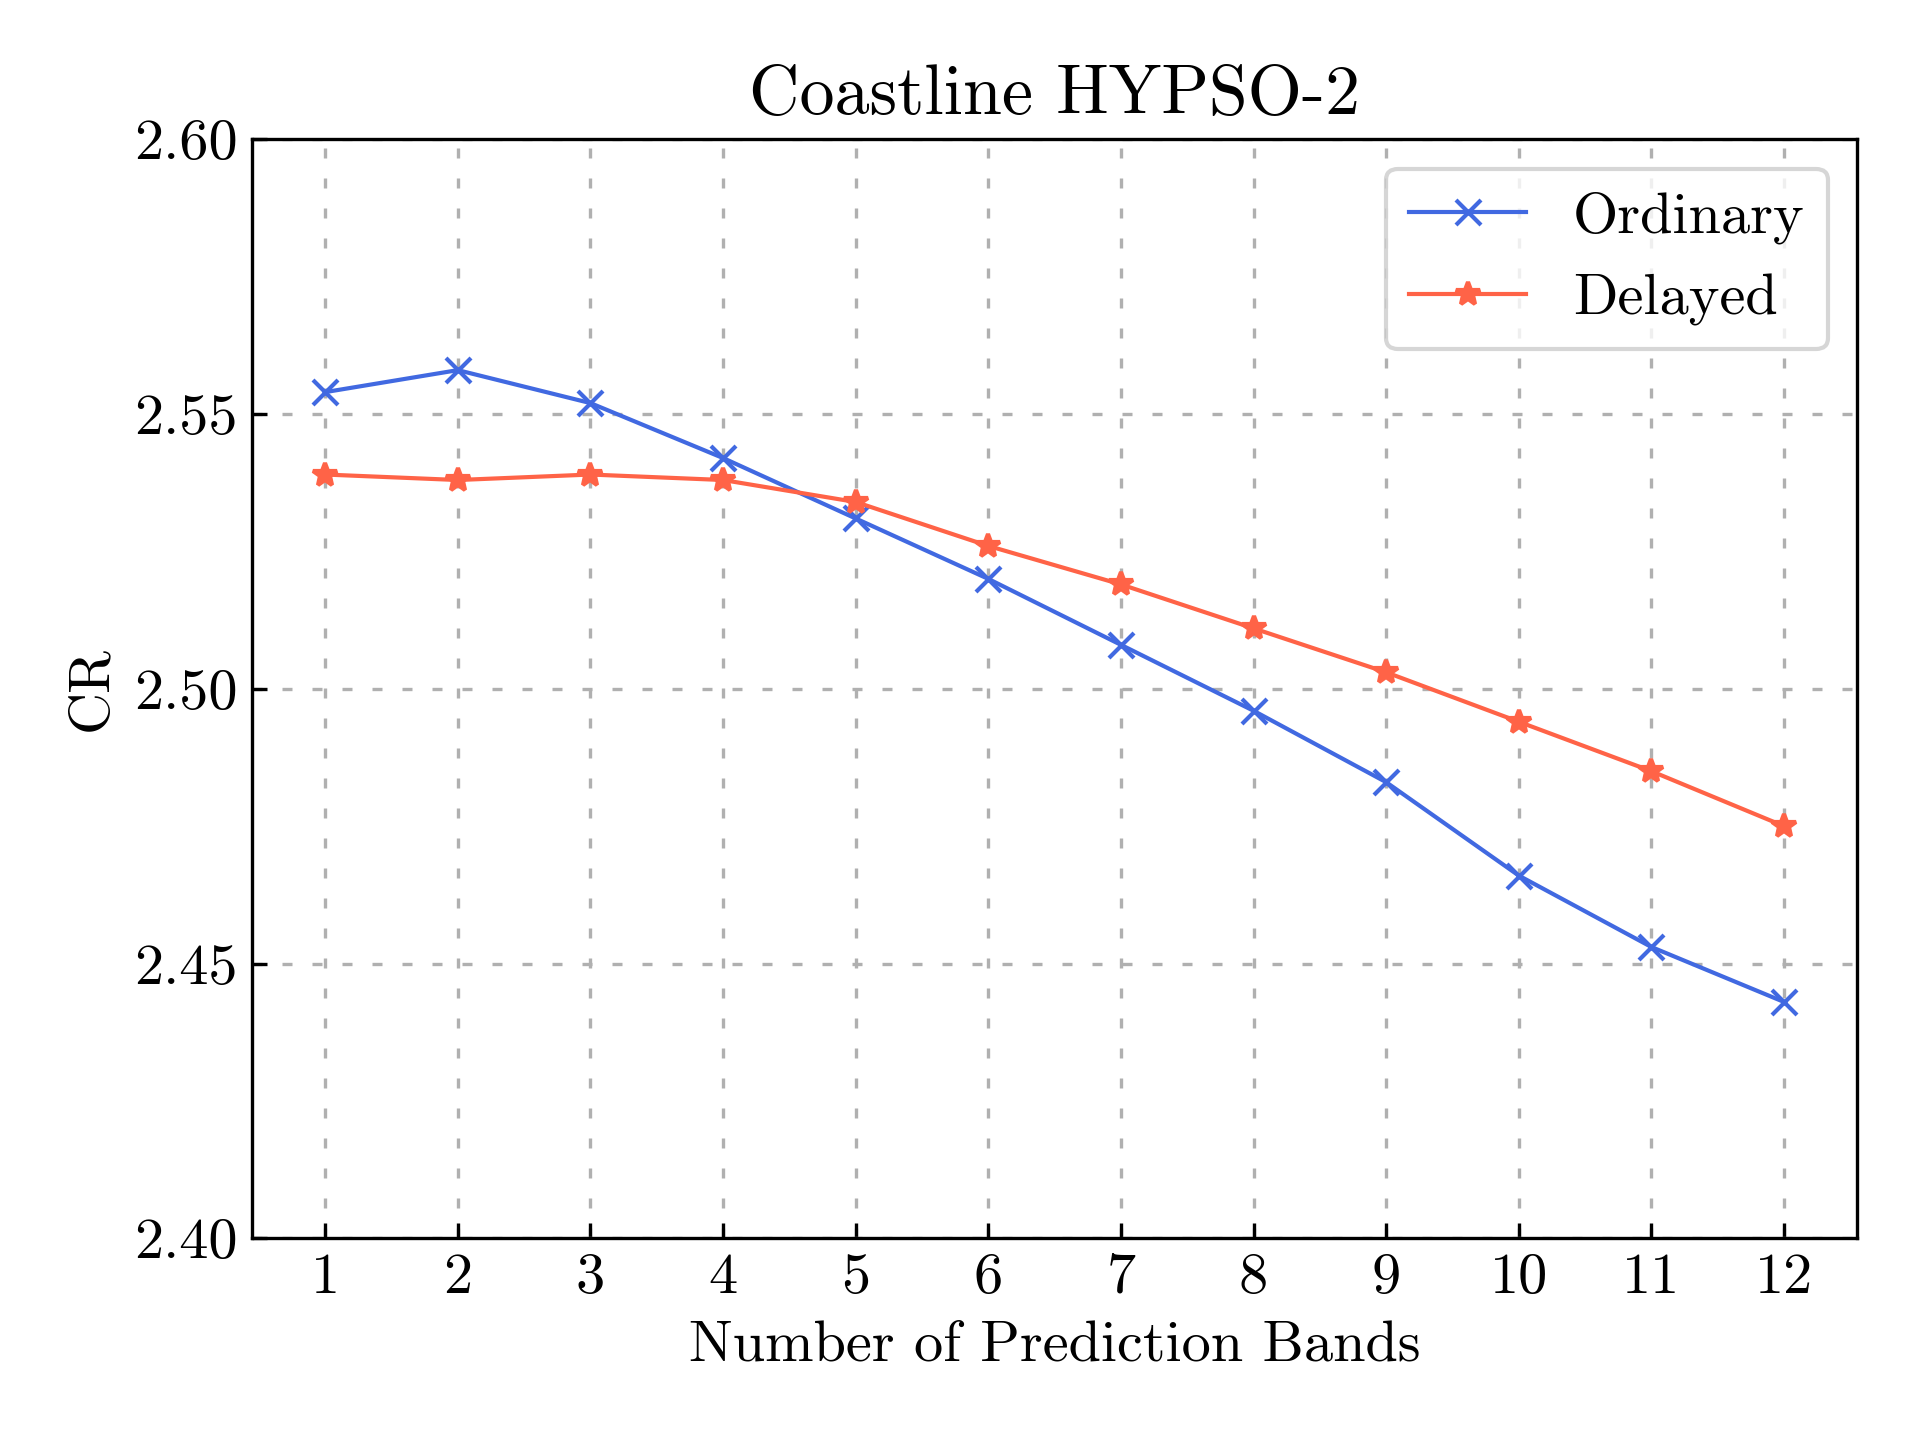
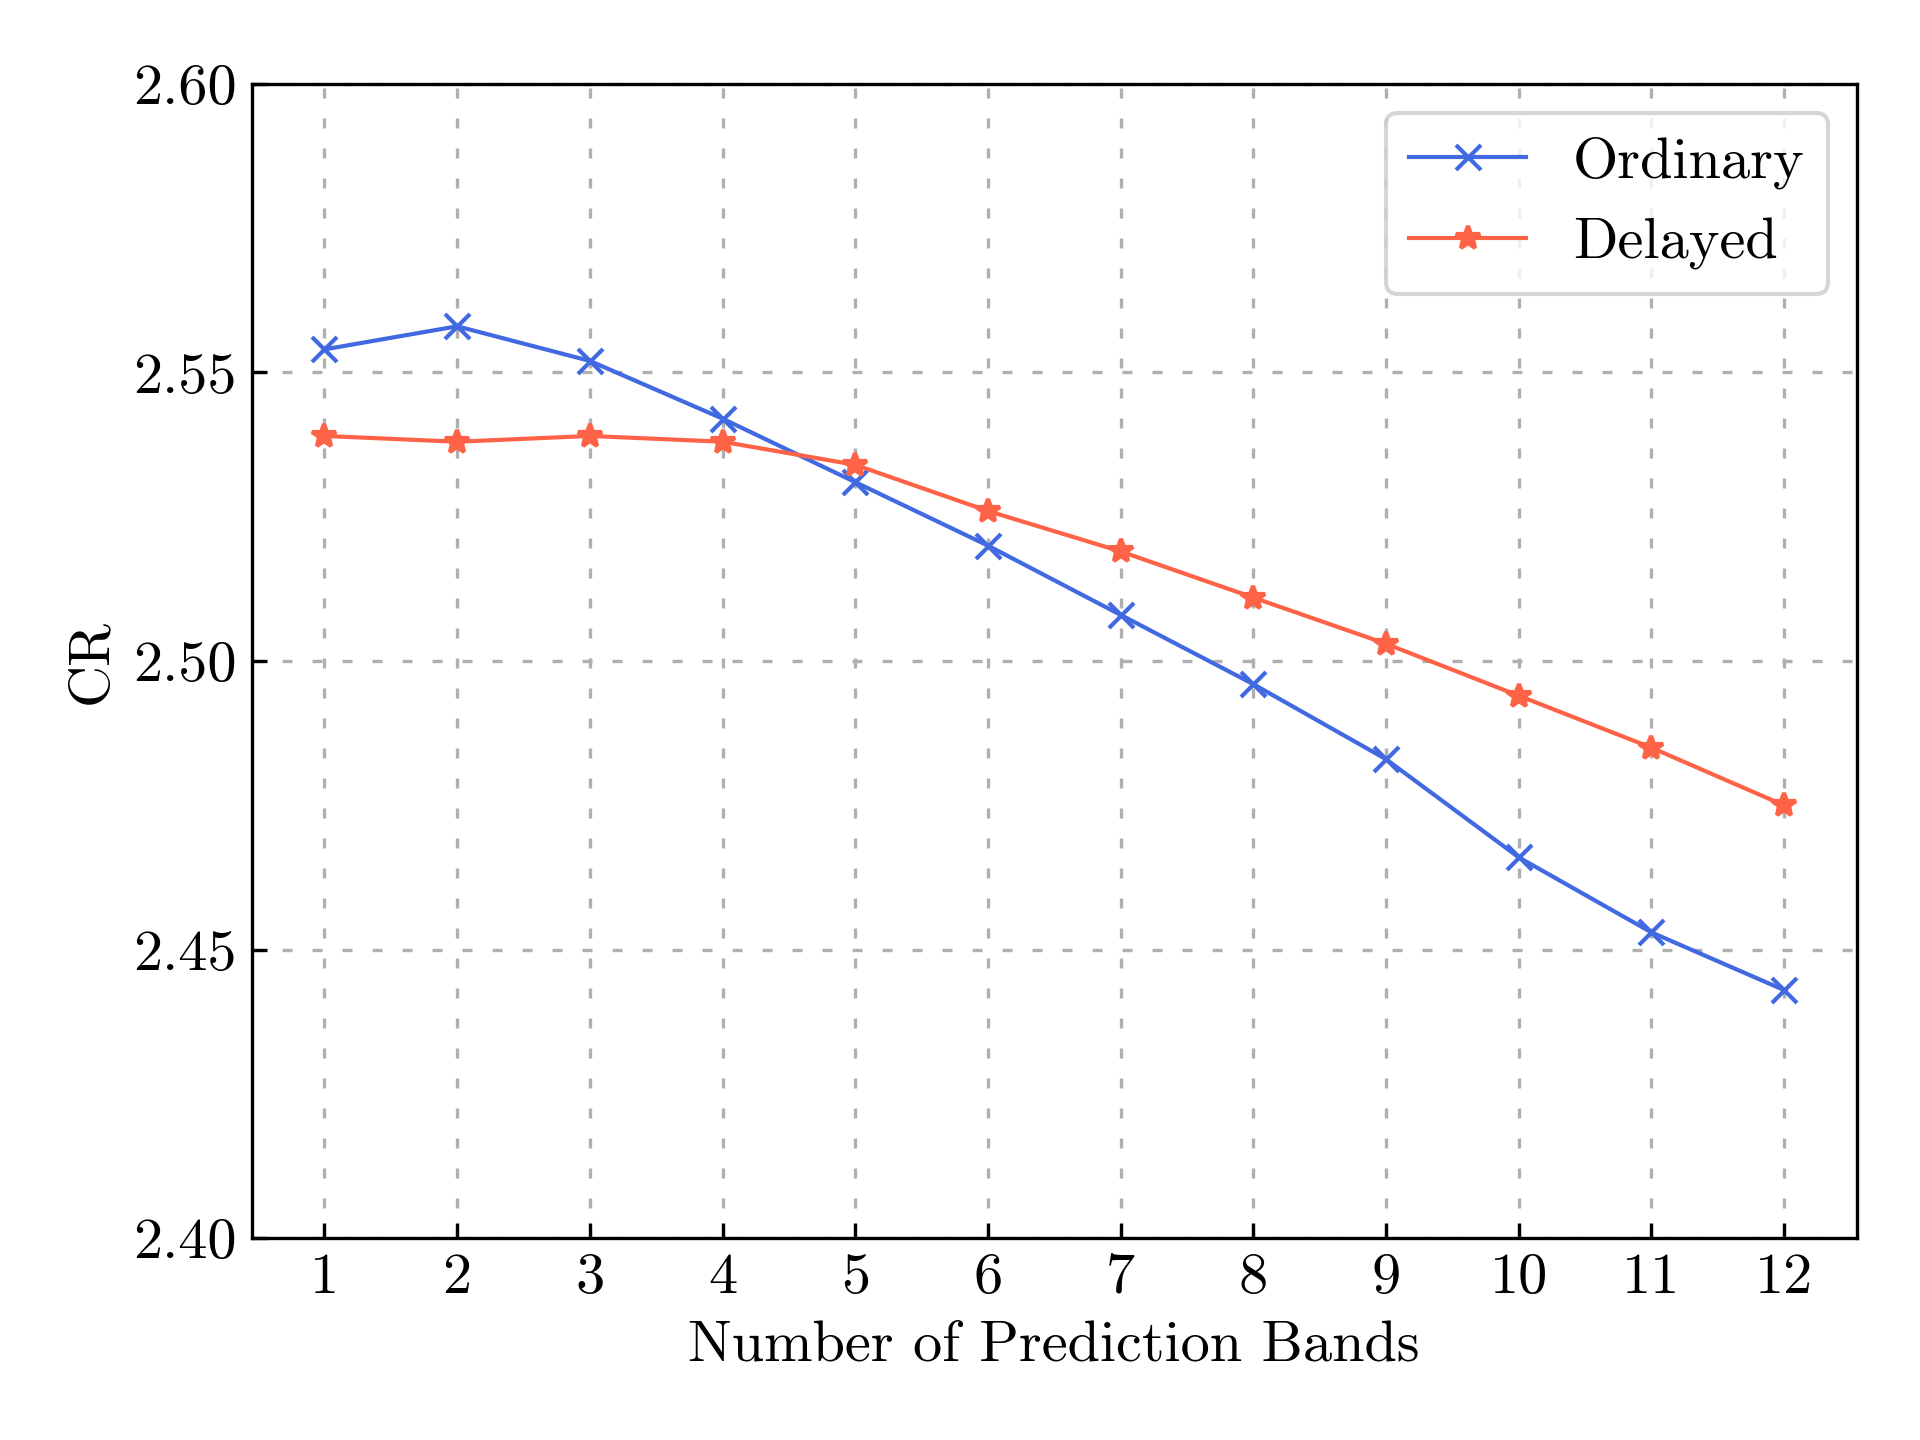
more state-of-the-art

diff --git a/chapters/3-state-of-the-art.tex b/chapters/3-state-of-the-art.tex
@@ -1,7 +1,11 @@
 \chapter{State-of-the-Art}
 \label{sec:state-of-the-art}
 
-Prequantization is used by both \citeauthor{chatziantoniouScalableDataRateNearLossless2022a} and \citeauthor{valsesiaHighThroughputOnboardHyperspectral2019}, the latter using a computational neural network at the ground station to recover some of the lost data. The latter does not implement the solution in RTL, but does a study of the viability of the method.
+Since the release of the issue 1 standard, several implementations for hardware have been developed. Due to the lossless operation of the algorithm, image samples are used in place of the sample representatives of issue 2. This allows samples of different bands to be processed in parallel execution pipelines, an approach used by \citeauthor{orlandicParallelFPGAImplementation2019} to achieve a throughput of 750 MS/s \cite{orlandicParallelFPGAImplementation2019}. Samples are processed in the \acrshort{BIP} ordering, where image pixels are processed sequentially. Groups of $N_p$ samples are split according to their band and processed by $N_p$ pipelined cores. A different approach is used by \citeauthor{tsigkanosHighPerformanceCOTSFPGA2020}, in which images are split into segments that are compressed using separate, simpler cores. Using five parallel cores, a throughput of 1387 MS/s is reached.
+
+Both of the mentioned issue 1 implementations support on-the-fly (real-time) processing, in which samples are processed immediately as they are made available from the image sensor. This is a desirable feature that reduces the need for temporary data storage. For the \acrshort{hypso}-1 image sensor, the real-time processing requirement is about 110.6 MS/s when operating at its maximum capacity of 47 frames per second with frames of size $1936x1216$ samples \cite{grotteOceanColorHyperspectral2022}. The real-time requirement differs between sensors, with the sensors of AVIRIS-NG and CHIME residing at 37.5 MS/s and 125 MS/s respectively \footnote{add cite to 18 and 21 from Bascones paper}[].
+
+The quantization step, and subsequent sample representatives, of issue 2 introduce data dependencies in the predictor stage (\autoref{fig:dependencies}) that pose a challenge for pipelined hardware implementations. Parallel processing of samples using the method of \citeauthor{orlandicParallelFPGAImplementation2019} is no longer possible. \citeauthor{barriosHardwareImplementationCCSDS2021} present the first implementation of issue 2 in open literature, and is fully compliant with the standard \cite{barriosHardwareImplementationCCSDS2021}. Using the \acrshort{HLS} design methodology, they reach a low throughput of 18 MS/s. No special considerations as to the data dependencies are made, resulting in an almost fully serial implementation. This shows that a different approach is required to reach real-time operation.
 
 \begin{table}[ht]
 	\caption{The number of processed samples interleaving $z-1$ and $t-1$ dependencies, including the novel FID ordering in addition to the standard orderings.}
@@ -18,21 +22,45 @@ Prequantization is used by both \citeauthor{chatziantoniouScalableDataRateNearLo
 	\end{center}
 \end{table}
 
+As shown in \autoref{sec:compression}, data dependencies may be selectively bypassed by carefully selecting the sample processing order. This interleaves data dependant calculations by a number of other samples, allowing time for the dependency to resolve. The first viable real-time implementation of issue 2 is presented by \citeauthor{basconesFPGAAcceleratorRealTime2020}. By use of a novel sample processing order, dubbed \acrfull{FID}, they reach a throughput of 285 MS/s. \autoref{fig:fid} shows a visualization of the \acrshort{FID} processing order, with processed samples marked in white. Frames are concatenated along the $x$ dimension and processed diagonally, iterating on the $z$ and $x$ dimensions. The number of samples that interleave data dependencies can be obtained by counting along the diagonal, giving $N_z-1$ and $N_z$ samples for $z-1$ and $t-1$ dependencies respectively. This facilitates the deep pipeline of $57$ stages used by the implementation while allowing support for full and reduced prediction modes and all local sum types. Dependency interleaving of the different processing orders, including \acrshort{FID} is summarized in \autoref{tab:orderings-fid}.
+
+The use of a new processing ordering requires reordering buffers that convert from the standard \acrshort{BIP} ordering. These are placed at each side of the predictor. The hybrid encoder module proceeds in \acrshort{BIP} ordering to result in a compressed bitstream compliant with the standard. Additionally, this allows integration into existing systems. The reordering buffers come at the cost of extra hardware resources, resulting in a somewhat larger footprint than that of \citeauthor{barriosHardwareImplementationCCSDS2021}. Especially in terms of \acrshort{BRAM}, which is increased from $85$ to $213$ due to storage required by the reordering buffers. Resource utilization is somewhat mitigated by use of portable \acrshort{RTL} written in VHDL, as opposed to the \acrshort{HLS} approach used by \citeauthor{barriosHardwareImplementationCCSDS2021}. Both implementations support runtime reconfiguration, adding additional hardware to provide flexibility.
+
 \begin{figure}[ht]
 	\begin{center}
 		\includegraphics[width=1\textwidth]{figures/fid.png}
 	\end{center}
-	\caption{}
+	\caption{Novel \acrshort{FID} processing order presented by \citeauthor{basconesFPGAAcceleratorRealTime2020} interleaves all dependencies by a minimum of $N_z - 1$ samples, allowing deep pipelining.}
 	\label{fig:fid}
 \end{figure}
 
 \begin{figure}[ht]
 	\begin{center}
+		\includegraphics[width=0.9\textwidth]{figures/ccsds-prequantization.png}
+	\end{center}
+	\caption{Prequantization of image samples allows use of a lossless prediction loop, avoiding the challenging data dependencies.}
+	\label{fig:prequantization}
+\end{figure}
+
+The works by \citeauthor{chatziantoniouScalableDataRateNearLossless2022a} and \citeauthor{valsesiaHighThroughputOnboardHyperspectral2019} suggest that the quantization step of the issue 2 predictor can be moved prior to the predictor as shown in \autoref{fig:prequantization} \cite{chatziantoniouScalableDataRateNearLossless2022a, valsesiaHighThroughputOnboardHyperspectral2019}. Image samples are quantized prior to prediction. This allows use of a lossless prediction loop, avoiding the need for sample representatives and the challenging data dependencies. The predictor can now be implemented using similar techniques as used by implementations of issue 1.
+
+In addition to prequantization, \citeauthor{chatziantoniouScalableDataRateNearLossless2022a} employ image segmentation, a technique that may also be used by issue 2 compliant compressors as described in issue 2 green book \cite{LosslessMultispectralHyperspectral2022}. Reduction in compression performance is minimal for the segmented image, given that the segment sizes are large. Using VHDL \acrshort{RTL} and five cores, \citeauthor{chatziantoniouScalableDataRateNearLossless2022a} reach a throughput of 1375 MS/s, with a single core performance of 285 MS/s. This matches the results of \citeauthor{basconesRealTimeFPGAImplementation2022}, but at a larger area footprint.
+
+Prequantization comes at a degradation in compression performance, both in terms of bitrate and image distortion, as opposed to the in-loop quantizer of issue 2. The works by \citeauthor{chatziantoniouScalableDataRateNearLossless2022a} and \citeauthor{valsesiaHighThroughputOnboardHyperspectral2019} show that the increase in bitrate and decreased image SNR are greatest for low bitrates. To combat this, \citeauthor{valsesiaHighThroughputOnboardHyperspectral2019} suggest using an on-ground computational neural network (CNN) to reconstruct lost data. During simulation, the method is able to mitigate data loss, and may be used for in-loop quantization as well as prequantization. However, the approach adds significant complexity to the reconstruction of images.
+
+\begin{figure}[ht]
+	\begin{center}
 		\includegraphics[width=1\textwidth]{figures/ccsds-pipeline-naive.png}
 	\end{center}
-	\caption{}
+	\caption{Suggested pipeline using reduced prediction mode, narrow local sums and \acrshort{BIL} processing order. Weight updates depend on results from the sample representative calculation, constraining the throughput.}
 	\label{fig:ccsds-pipeline-naive}
 \end{figure}
+
+\citeauthor{sanchezReducingDataDependencies2022} identify that by using narrow local sums and reduced prediction mode, $t-1$ dependencies related to local sums and differences can be avoided (\autoref{fig:local-sums}) \cite{sanchezReducingDataDependencies2022}. Additionally, by using \acrshort{BIL} processing order, $z-1$ dependencies can be avoided (\autoref{tab:orderings-fid}). \autoref{fig:ccsds-pipeline-naive} shows a pipeline using these configuration. The weight update calculation, required by predicted central local differences, still has an unavoidable $t-1$ dependency, placing a significant restriction on the achievable throughput.
+
+\citeauthor{barriosRemovingDataDependencies2024} present a solution in which the remaining data dependence of the weight updates is avoided by skipping weight updates entirely. This allows deep pipelining, but comes at the cost of reduced compression performance as the prediction loop can no longer dynamically adapt to image characteristics. To mitigate this, the authors use previous data sets to carefully select the initial weight values for specific image sensors. ...
+
+\citeauthor{sanchezReducingDataDependencies2022} also present a mathematically equivalent way of calculating the sign of the double-resolution prediction error $e_z(t)$, given by
 
 \begin{equation}
 	\text{sgn}^+\bigl[e_z(t)\bigr] =
@@ -44,11 +72,13 @@ Prequantization is used by both \citeauthor{chatziantoniouScalableDataRateNearLo
 	\label{eq:math-opt}
 \end{equation}
 
+This removes the dependence of the clipped quantizer bin center (\autoref{eq:double-resolution-prediction-error}), calculated in the samples representative stage, allowing calculation to start earlier (\autoref{fig:ccsds-pipeline-math-opt}). By speculatively calculating the weight updates for the two possible outcomes of the sign, weight updates may be calculated in parallel with the sign during the prediction stage. Once the sign calculation resolves, the correct outcome of the weight update is selected and passed to the predicted central local difference stage. This approach, dubbed the mathematical optimization approach, is evaluated by \citeauthor{barriosRemovingDataDependencies2024} using the \acrshort{HLS} methodology. Only the predictor module is evaluated, reaching a throughput of 231 MS/s. This is used as comparison for their approach of skipping weight updates, which reaches 236 MS/s.
+
 \begin{figure}[ht]
 	\begin{center}
 		\includegraphics[width=1\textwidth]{figures/ccsds-pipeline-math-opt.png}
 	\end{center}
-	\caption{}
+	\caption{Weight update dependence on sample representatives is alleviated using the mathematical optimization approach suggested by \citeauthor{sanchezReducingDataDependencies2022}. Speculative calculation of weight updates further increases throughput.}
 	\label{fig:ccsds-pipeline-math-opt}
 \end{figure}
 
@@ -63,29 +93,30 @@ Prequantization is used by both \citeauthor{chatziantoniouScalableDataRateNearLo
 \begin{equation}
 	\omega^{(i)}_{z, \text{unclipped}}(t+1)=
 	\begin{cases}
-		\omega^{(i)}_z(t),                                                                                                                   & x \le 2,          \\[6pt]
-		\omega^{(i)}_z(t-3) + \omega^{(i)}_{z, \text{offset}}(t-3),                                                                          & x = 3,            \\[6pt]
+		\omega^{(i)}_z(t),                                                                                                                   & t \le 2,          \\[6pt]
+		\omega^{(i)}_z(t-3) + \omega^{(i)}_{z, \text{offset}}(t-3),                                                                          & t = 3,            \\[6pt]
 		\left\lfloor \dfrac{1}{2}\left(\omega^{(i)}_z(t-3) + \omega^{(i)}_{z, \text{offset}}(t-3) + \omega^{(i)}_z(t) \right) \right\rfloor, & \text{otherwise}.
 	\end{cases}
 	\label{eq:delayed-weight-updates}
 \end{equation}
 
 \begin{table}[ht]
-	\caption{Throughputs of hardware implementations of the issue 2 algorithm in open literature.}
-	\label{tab:throughput}
+	\caption{Hardware utilization and throughput of hardware accelerators of the issue 2 standard. The predictor module is the smallest and fastest in open litterature.}
+	\label{tab:throughput-this-work}
 	\centering
-	\begin{tabular}{l r r}
+	\begin{tabular}{l r r r r r r}
 		\hline
-		\textbf{Implementation}                                                                                      & \textbf{FPGA} & \textbf{Throughput} \\
+		\textbf{Implementation}                                                                                      & \textbf{FPGA} & \textbf{LUT} & \textbf{FF} & \textbf{DSP} & \textbf{BRAM} & \textbf{Throughput} \\
 		\hline
-		Barrios et al.\ \cite{barriosHardwareImplementationCCSDS2021}                                                & XCKU040       & 18~MS/s             \\
-		S\'anchez et al.\ \cite{sanchezReducingDataDependencies2022, barriosRemovingDataDependencies2024}, predictor & XCKU040       & 231~MS/s            \\
-		Barrios et al.\ \cite{barriosRemovingDataDependencies2024}, predictor                                        & XCKU040       & 236~MS/s            \\
-		B\'ascones et al.\ \cite{basconesRealTimeFPGAImplementation2022}                                             & XQRKU060      & 285~MS/s            \\
-		Chatziantoniou et al.\ \cite{chatziantoniouScalableDataRateNearLossless2022a} 1 core                         & XCKU040       & 285~MS/s            \\
-		Chatziantoniou et al.\ \cite{chatziantoniouScalableDataRateNearLossless2022a} 5 core                         & XCKU040       & 1375~MS/s           \\
-		Vorhaug et al.\ \cite{vorhaugHyperspectralImageCompression2024}                                              & XCKU040       & 110~MS/s            \\
-		Jia et al.\ \cite{jiaRemovalFeedbackLoop2025}, predictor                                                     & XCZU5EV       & 348~MS/s            \\
+		Barrios et al.\ \cite{barriosHardwareImplementationCCSDS2021}                                                & XCKU040       & 17185        & 11915       & 63           & 85            & 18~MS/s             \\
+		S\'anchez et al.\ \cite{sanchezReducingDataDependencies2022, barriosRemovingDataDependencies2024}, predictor & XCKU040       & 19840        & 12970       & 33           & 213           & 231~MS/s            \\
+		Barrios et al.\ \cite{barriosRemovingDataDependencies2024}, predictor                                        & XCKU040       & 11095        & 11729       & 20           & 186.5         & 236~MS/s            \\
+		B\'ascones et al.\ \cite{basconesRealTimeFPGAImplementation2022}                                             & XQRKU060      & 16458        & 15707       & 30           & 187.5         & 285~MS/s            \\
+		Chatziantoniou et al.\ \cite{chatziantoniouScalableDataRateNearLossless2022a} 1 core                         & XCKU040       & 18861        & 21395       & -            & 104           & 285~MS/s            \\
+		Chatziantoniou et al.\ \cite{chatziantoniouScalableDataRateNearLossless2022a} 5 core                         & XCKU040       & 67362        & 68987       & -            & 306           & 1375~MS/s           \\
+		Vorhaug et al.\ \cite{vorhaugHyperspectralImageCompression2024}                                              & XCKU040       & 5577         & 2635        & 4            & 57.5          & 110~MS/s            \\
+		Vorhaug et al.\ \cite{vorhaugHyperspectralImageCompression2024}                                              & XCZU7EV       & 5475         & 2635        & 4            & 57.5          & 141~MS/s            \\
+		Jia et al.\ \cite{jiaRemovalFeedbackLoop2025}, predictor                                                     & XCZU5EV       & 3995         & 5050        & 7            & 94            & 348~MS/s            \\
 		\hline
 	\end{tabular}
 \end{table}

diff --git a/chapters/4-implementation.tex b/chapters/4-implementation.tex
@@ -1,7 +1,7 @@
 \chapter{Methodology}
 \label{sec:implementation}
 
-This section outlines the integration of the new weight update scheme proposed by \citeauthor{jiaRemovalFeedbackLoop2025} into the hardware accelerator implemented by \citeauthor{vorhaugHyperspectralImageCompression2024}. The use of this new weight update scheme, dubbed delayed weight updates, results in a compressor that is no longer compliant with the issue 2 standard. Because of this, corresponding modifications to the predictor of the decompressor must be made to verify the results. A few open-source compressor have been developed, including the verification model presented by \citeauthor{vorhaugHyperspectralImageCompression2024}. Kevin Caldwell et al. and Daniel Báscones et al. have compressors written in the programming languages C and Java respectively \footnote{As of writing, the compressors are available online in the Github repositories \textit{Kevin-Caldwell/hyperC} and \textit{Daniel-BG/CCSDS123}.}. The latter is related to the works in \cite{basconesParallelImplementationCCSDS2017} and \cite{basconesFPGAAcceleratorRealTime2020}, whereas the first is not supported by any published works. Both compressors are compliant with the issue 2 standard, but only implement support for the sample-adaptive encoder and with limited support for decompression. This prompts the need for an open-source decompressor with support for the hybrid encoder. Before the changes to the hardware accelerator are presented, the outline for developing such a decompressor is covered.
+This section outlines the integration of the new weight update scheme proposed by \citeauthor{jiaRemovalFeedbackLoop2025} into the hardware accelerator implemented by \citeauthor{vorhaugHyperspectralImageCompression2024}. The use of this new weight update scheme, dubbed delayed weight updates, results in a compressor that is no longer compliant with the issue 2 standard. Because of this, corresponding modifications to the predictor of the decompressor must be made to verify the results. A few open-source compressor have been developed, including the verification model presented by \citeauthor{vorhaugHyperspectralImageCompression2024}. Kevin Caldwell et al. and Daniel Báscones et al. have compressors written in the programming languages C and Java respectively \footnote{As of writing, the compressors are available online in the Github repositories \textit{Kevin-Caldwell/hyperC} and \textit{Daniel-BG/CCSDS123}.}. The latter is related to the works in \cite{basconesFPGAAcceleratorRealTime2020}, whereas the first is not supported by any published works. Both compressors are compliant with the issue 2 standard, but only implement support for the sample-adaptive encoder and with limited support for decompression. This prompts the need for an open-source decompressor with support for the hybrid encoder. Before the changes to the hardware accelerator are presented, the outline for developing such a decompressor is covered.
 
 \section{Open-source Decompressor}
 
@@ -127,6 +127,16 @@ Compression performance is also evaluated across a range of prediction bands $\{
 
 \section{Hardware Accelerator}
 
+\begin{equation}
+	\omega^{(i)}_{z, \text{unclipped}}(t+1)=
+	\begin{cases}
+		\omega^{(i)}_z(t),                                                                                                                   & x \le 2,          \\[6pt]
+		\omega^{(i)}_z(t-3) + \omega^{(i)}_{z, \text{offset}}(t-3),                                                                          & x = 3,            \\[6pt]
+		\left\lfloor \dfrac{1}{2}\left(\omega^{(i)}_z(t-3) + \omega^{(i)}_{z, \text{offset}}(t-3) + \omega^{(i)}_z(t) \right) \right\rfloor, & \text{otherwise}.
+	\end{cases}
+	\label{eq:delayed-weight-updates-modified}
+\end{equation}
+
 The hardware accelerator developed by \citeauthor{vorhaugHyperspectralImageCompression2024} is updated in accordance with the delayed weight update scheme proposed by \citeauthor{jiaRemovalFeedbackLoop2025}, presented in \autoref{eq:delayed-weight-updates}. By use of this new approach, the previously indivisible weight update calculation of pipeline stage three (\autoref{fig:vorhaug-pipeline}) can be split into four distinct stages as shown in \autoref{fig:new-stage3}. The prediction calculation is done in parallel with the weight update, with stage 3a and 3b calculating $\hat{d}_z(t)$ and $\breve{s}_z(t)$. $\tilde{s}_z(t)$ and $\hat{s}_z(t)$ are calculated in stage 3c before $\Delta_z(t)$ and $m_z(t)$ are found in stage 3d. As described by \citeauthor{sanchezReducingDataDependencies2022}, speculative execution of the two possible outcomes of the weight update is performed in two parallel execution paths. Once the required values to find the sign of the prediction error (\autoref{eq:math-opt}) resolves in stage 3d, the correct value is chosen.
 
 \begin{figure}[ht]
@@ -177,7 +187,9 @@ Randomly generated test data is used as the inputs of the verification framework
 
 \subsection{Performance Evaluation}
 
-The performance of the updated accelerator is done in terms of hardware resource utilization, power usage, and maximum clock frequency. Since the accelerator processes one sample per clock cycle, after the pipeline is filled, the clock speed can be directly translated to sample throughput. The design is implemented for two different \acrshort{FPGA}s: Zynq-7030 and Zynq XCZU7EV. The former is used on-board the \acrshort{hypso} satellites, and the latter is used by \citeauthor{jiaRemovalFeedbackLoop2025} in their work presenting the delayed weight update scheme. Additionally, metrics are evaluated for the full accelerator and for the predictor module only. This allows comparison with implementation in the literature that only implement the predictor. The header configuration used during evaluation is based on the work by \citeauthor{blanesPerformanceImpactParameter2019} and is presented in \autoref{tab:parameters}. These values are also the same as those used by \citeauthor{vorhaugHyperspectralImageCompression2024}.
+The performance of the updated accelerator is done in terms of hardware resource utilization, power usage, and maximum clock frequency. Since the accelerator processes one sample per clock cycle, after the pipeline is filled, the clock speed can be directly translated to sample throughput. The design is implemented for two different \acrshort{FPGA}s: Zynq-7030 and Zynq XCZU7EV. The former is used on-board the \acrshort{hypso} satellites, and the latter is used by \citeauthor{jiaRemovalFeedbackLoop2025} in their work presenting the delayed weight update scheme. Maximum clock frequency is estimated using static timing analysis tools.
+
+The design is evaluated for the full accelerator and for the predictor module only. This allows comparison with implementations in the literature that only implement the predictor. The header configuration used during evaluation is based on the work by \citeauthor{blanesPerformanceImpactParameter2019} and is presented in \autoref{tab:parameters}. These values are also the same as those used by \citeauthor{vorhaugHyperspectralImageCompression2024}.
 
 \subsection{On-board Testing}
 
@@ -193,7 +205,7 @@ To verify the accelrator on real hardware, the design is integrated into the \ac
 
 \autoref{app:block-design} shows the integration of the accelerator from the work of \citeauthor{vorhaugHyperspectralImageCompression2024}. The diagram shows the configured modules inside the Zynq-7030. A special clock module allows selecting the clock frequency of the accelerator separately from the rest of the system. This work only modifies the predictor module of the accelerator, without touching external interfaces. Thus, no changes to the integration for \acrshort{hypso} are necessary, with the exception of tuning the clock frequency and rebuilding the system. Note that for integration into the \acrshort{OPU}, the reorder buffer designed by \citeauthor{vorhaugHyperspectralImageCompression2024} must be used.
 
-Before uplinking the modified design to the satellite it is tested on the on-ground engineering model. The engineering model has identical hardware and software to the satellite, allowing efficient testing and development. A set of \acrshort{hypso} images are compressed using the accelerator on-ground and verified against the verification model.
+Before uplinking the modified design to the satellite it is tested on the on-ground engineering model. The engineering model has identical hardware and software to the satellite, allowing efficient testing and development. A same set of ten \acrshort{hypso}-2 coastline images used to evaluate the verification model are compressed using the accelerator on-ground and verified against the verification model.
 
 % Some large figures here...
 

diff --git a/chapters/5-results.tex b/chapters/5-results.tex
@@ -23,7 +23,7 @@
 
 \begin{table}[ht]
 	\caption{Performance of compression using verification model with C++ predictor and delayed weight updates averaged over ten HYPSO-2 images for a set of PAEs.}
-	\label{tab:coastline-hlm}
+	\label{tab:coastline-compress}
 	\begin{center}
 		\begin{tabular}{lrrrrr}
 			\hline
@@ -41,7 +41,7 @@
 
 \begin{table}[ht]
 	\caption{Performance of decompression using verification model with C++ predictor and delayed weight updates averaged over ten HYPSO-2 images for a set of PAEs.}
-	\label{tab:coastline-hlm}
+	\label{tab:coastline-decompress}
 	\begin{center}
 		\begin{tabular}{lrrrrr}
 			\hline
@@ -61,7 +61,7 @@
 	\begin{center}
 		\includegraphics[width=1\textwidth]{figures/execution_time.png}
 	\end{center}
-	\caption{Execution time for the C++ predictor and hybrid encoder modules during comrpession and decompression for a set of absolute error limits. Results are averaged over a set of ten \acrshort{hypso}-2 images.}
+	\caption{Execution time for the C++ predictor and hybrid encoder modules during compression and decompression for a set of absolute error limits. Results are averaged over a set of ten \acrshort{hypso}-2 images.}
 	\label{fig:execution_time}
 \end{figure}
 
@@ -149,6 +149,14 @@
 		\end{tabular}
 	\end{center}
 \end{table}
+
+\begin{figure}[ht]
+	\begin{center}
+		\includegraphics[width=0.6\textwidth]{figures/bitrate.png}
+	\end{center}
+	\caption{Compression performance presented in bits per sample for a set of absolute error limits. Results are averaged over a set of ten \acrshort{hypso}-2 coastline images with $D=16$.}
+	\label{fig:bitrate}
+\end{figure}
 
 % \begin{table}[ht]
 % 	\caption{Reductions in compression performance for coastline image for this work and the work by \citeauthor{jiaRemovalFeedbackLoop2025}.}

diff --git a/chapters/6-discussion.tex b/chapters/6-discussion.tex
@@ -5,6 +5,8 @@
 
 The decrease in compression performance introduced by delayed weight updates cause significantly longer downlink time which is not outweighed by the reduced execution time, by far.
 
+Bitrate varies greatly with image characteristics. Hypso images do not achieve low bitrates, aviris is significantly lower bitrates.
+
 \section{Verification Model Performance}
 
 Higher execution time of the encoder for higher error limits suggest that the encoding of low-entropy samples is slower than that of high-entropy samples.